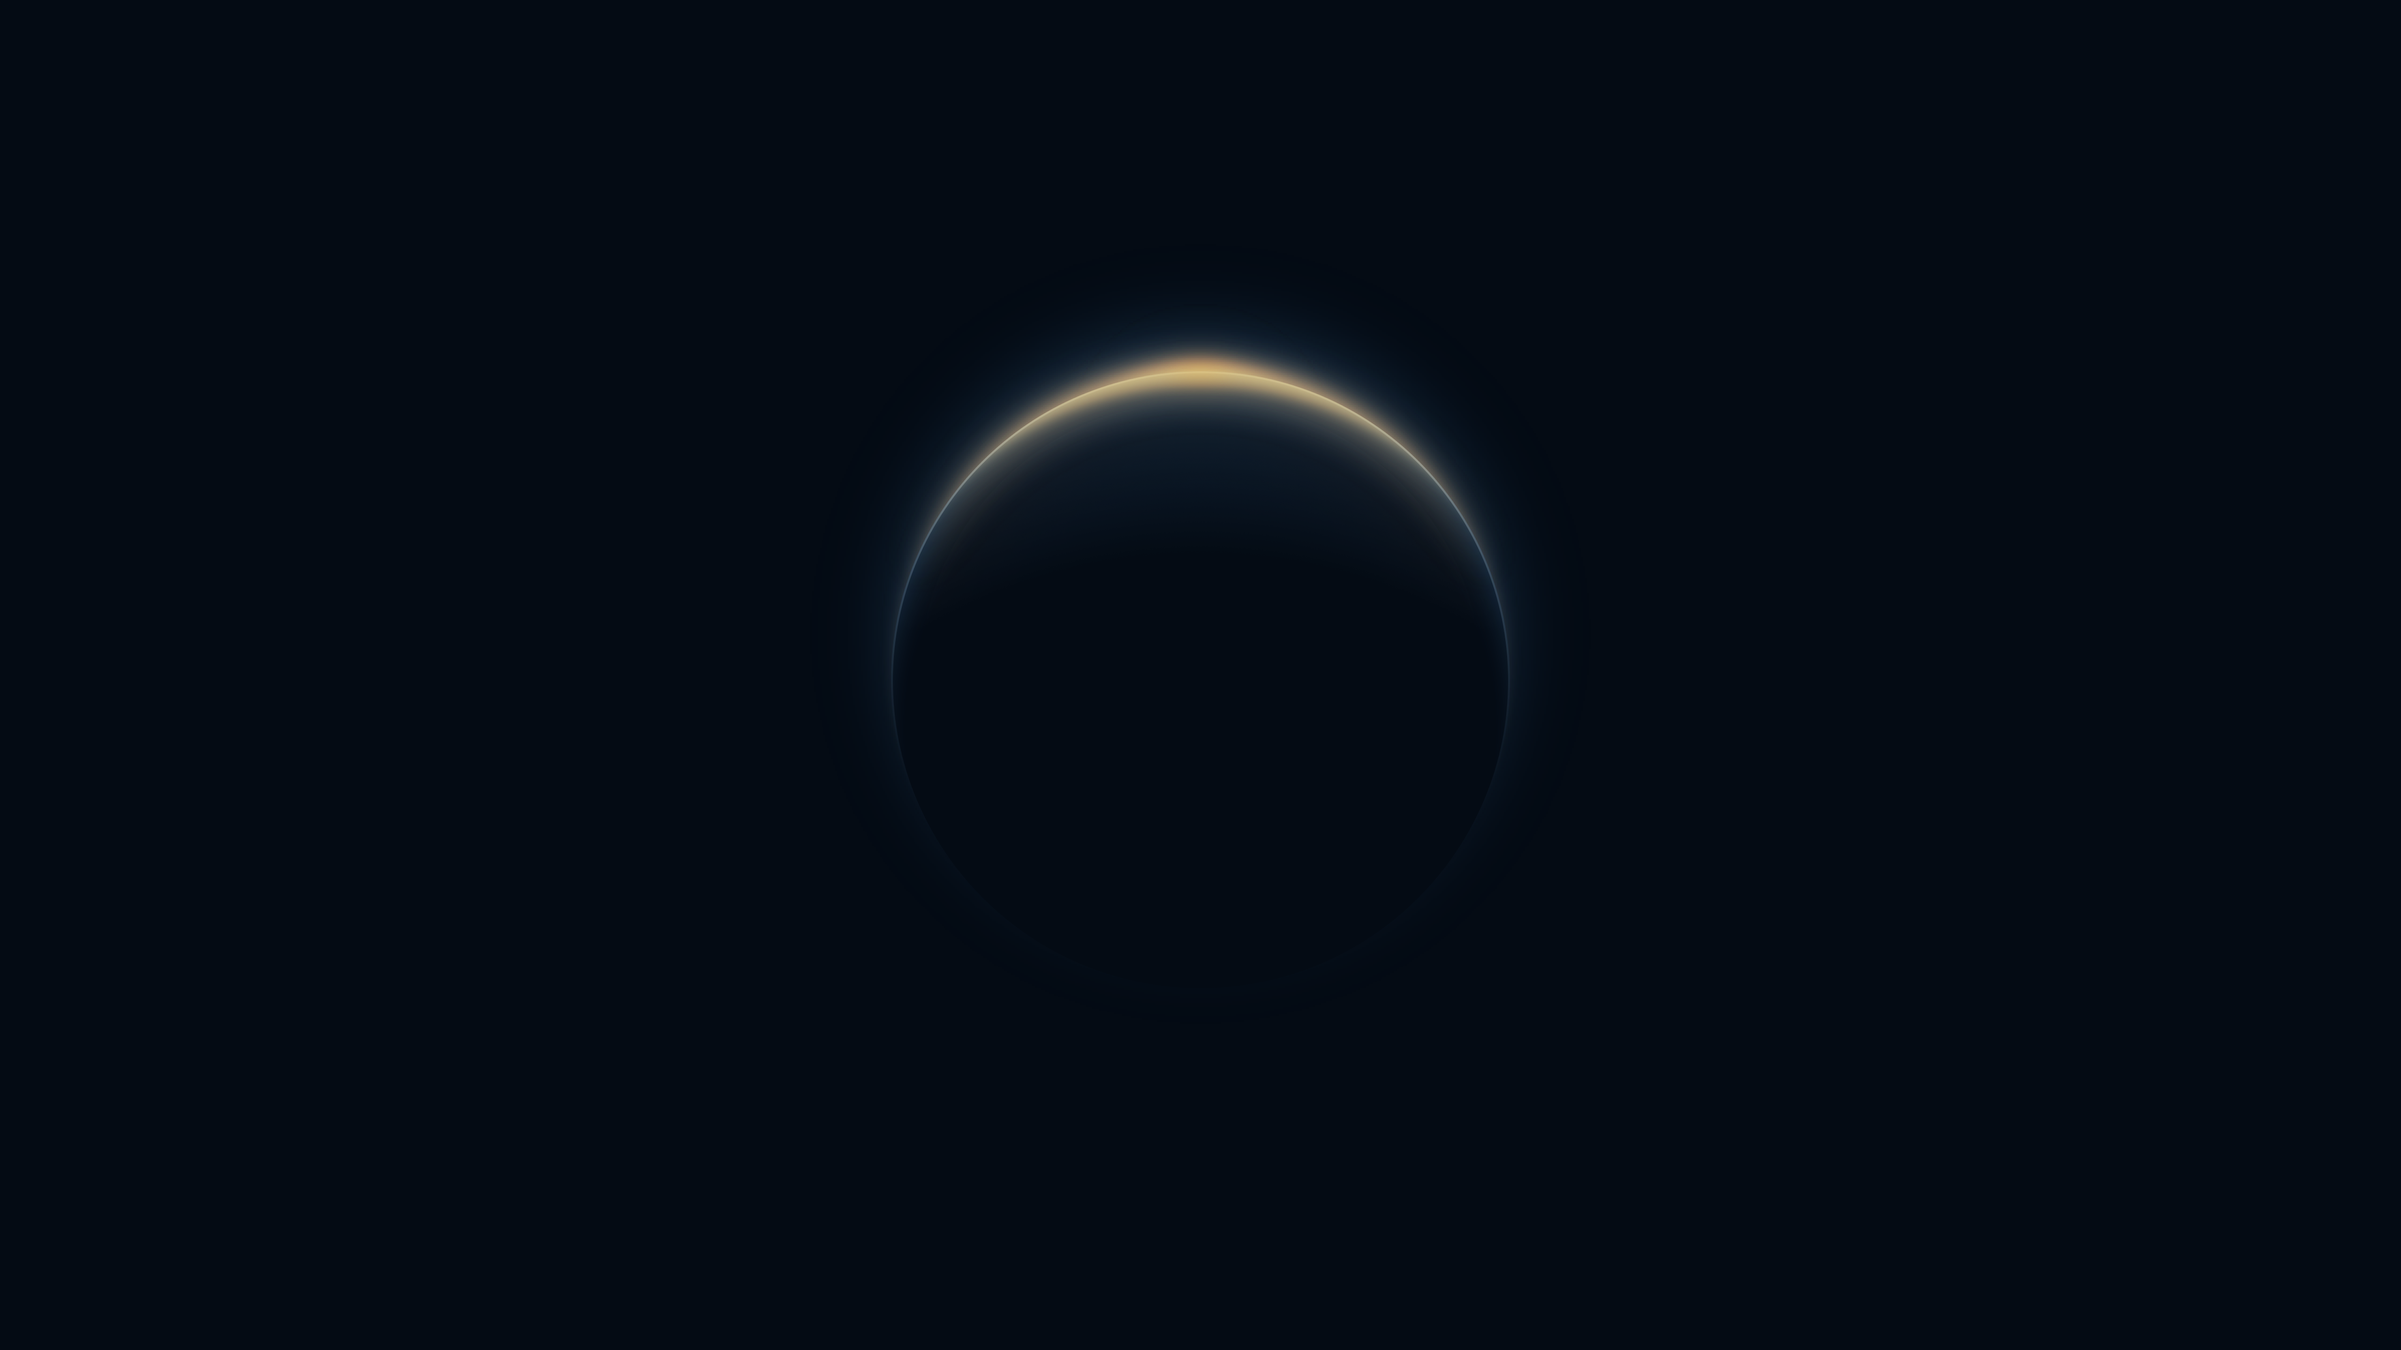
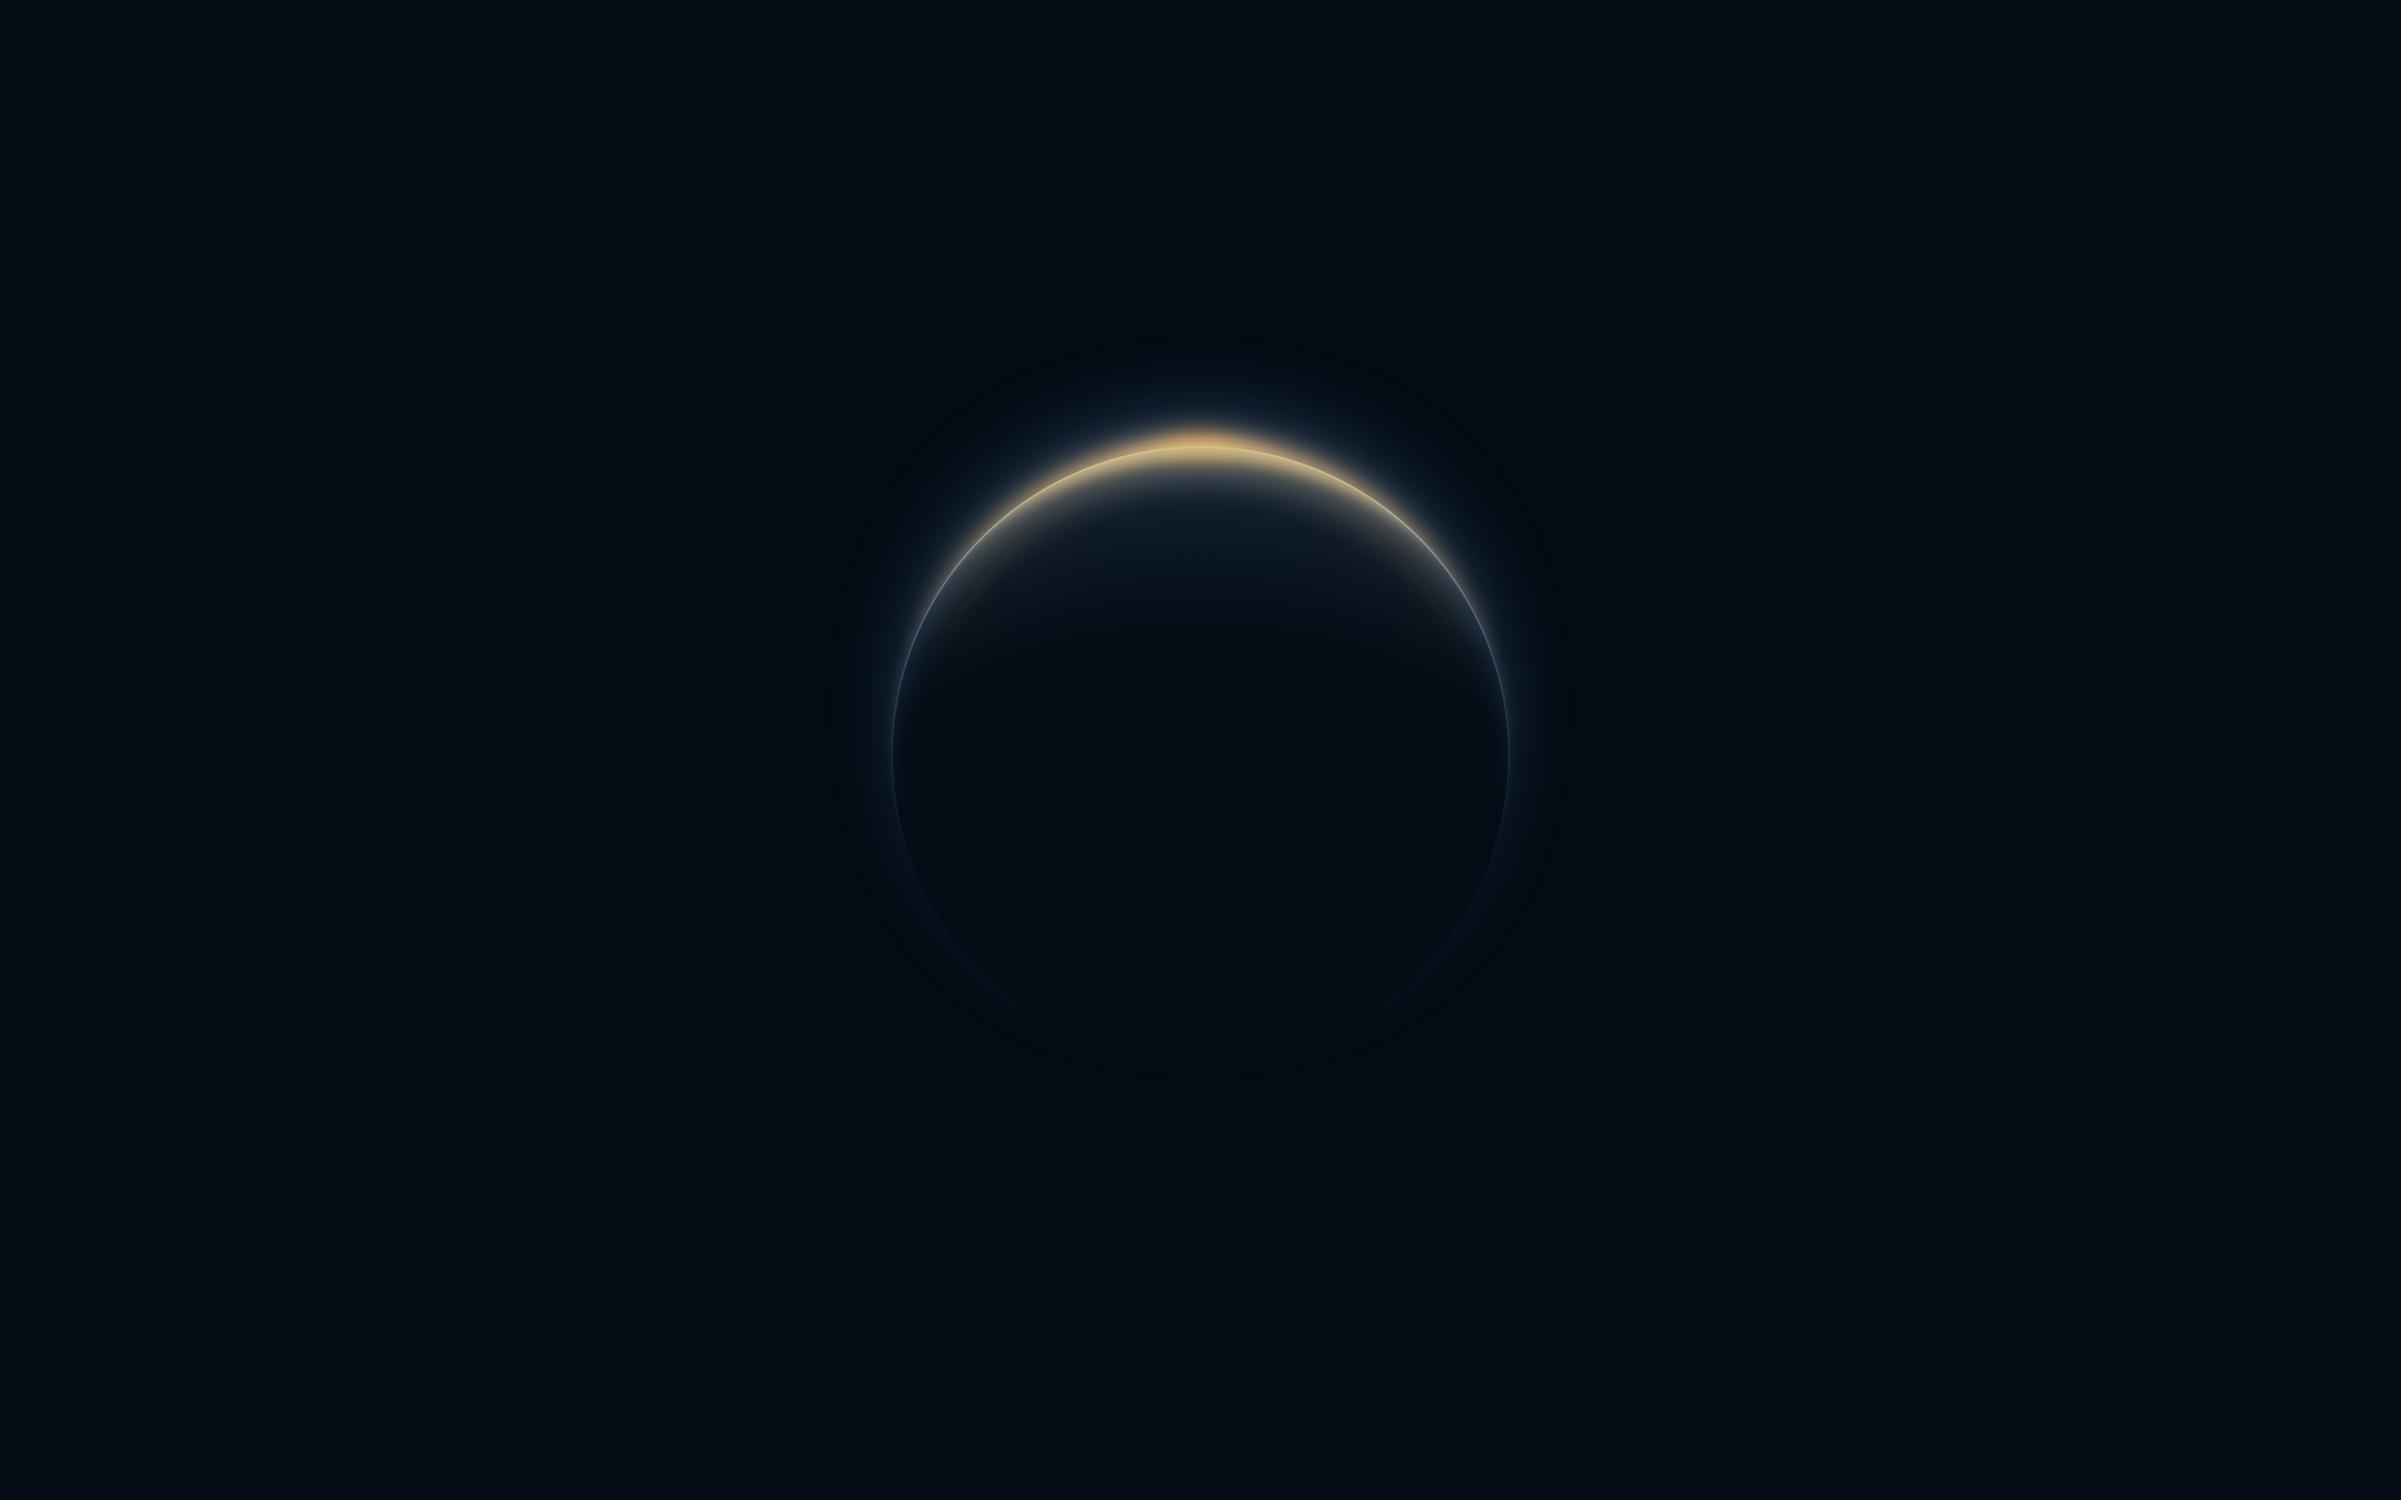
updated wallpapers for 16:10

Changed region(s): [[0.375, 0.25, 0.625, 0.4062]]

diff --git a/wallpapers/index.html b/wallpapers/index.html
@@ -64,8 +64,8 @@
             <p>These images are provided on an "AS IS" basis. No warrantary is provided, neither expressed nor implied; you use the content on your own risk. I am not liable for any direct or indirect consequences of utilization of these content. Neither do I guarantee non-infringement of intellectual properties of third parties.</p>
             <h2>DIRECTORY</h2>
             <ul>
-                <li><a href="/wallpapers/downloads/Dark%20Planet%20Horizontal.png" target="_blank">Dark Planet Horizontal</a> <span class="low">(5120*2880, 16:9, 994KB)</span></li>
-                <li><a href="/wallpapers/downloads/Dark%20Planet%20Vertical.png" target="_blank">Dark Planet Vertical</a> <span class="low">(1440*2560, 9:16, 441KB)</span></li>
+                <li><a href="/wallpapers/downloads/Dark%20Planet%20Horizontal.png" target="_blank">Dark Planet Horizontal</a> <span class="low">(5120*3200, 16:10, 1.0MB)</span></li>
+                <li><a href="/wallpapers/downloads/Dark%20Planet%20Vertical.png" target="_blank">Dark Planet Vertical</a> <span class="low">(1440*2560, 9:16, 434KB)</span></li>
             </ul>
         </div>
     </body>
